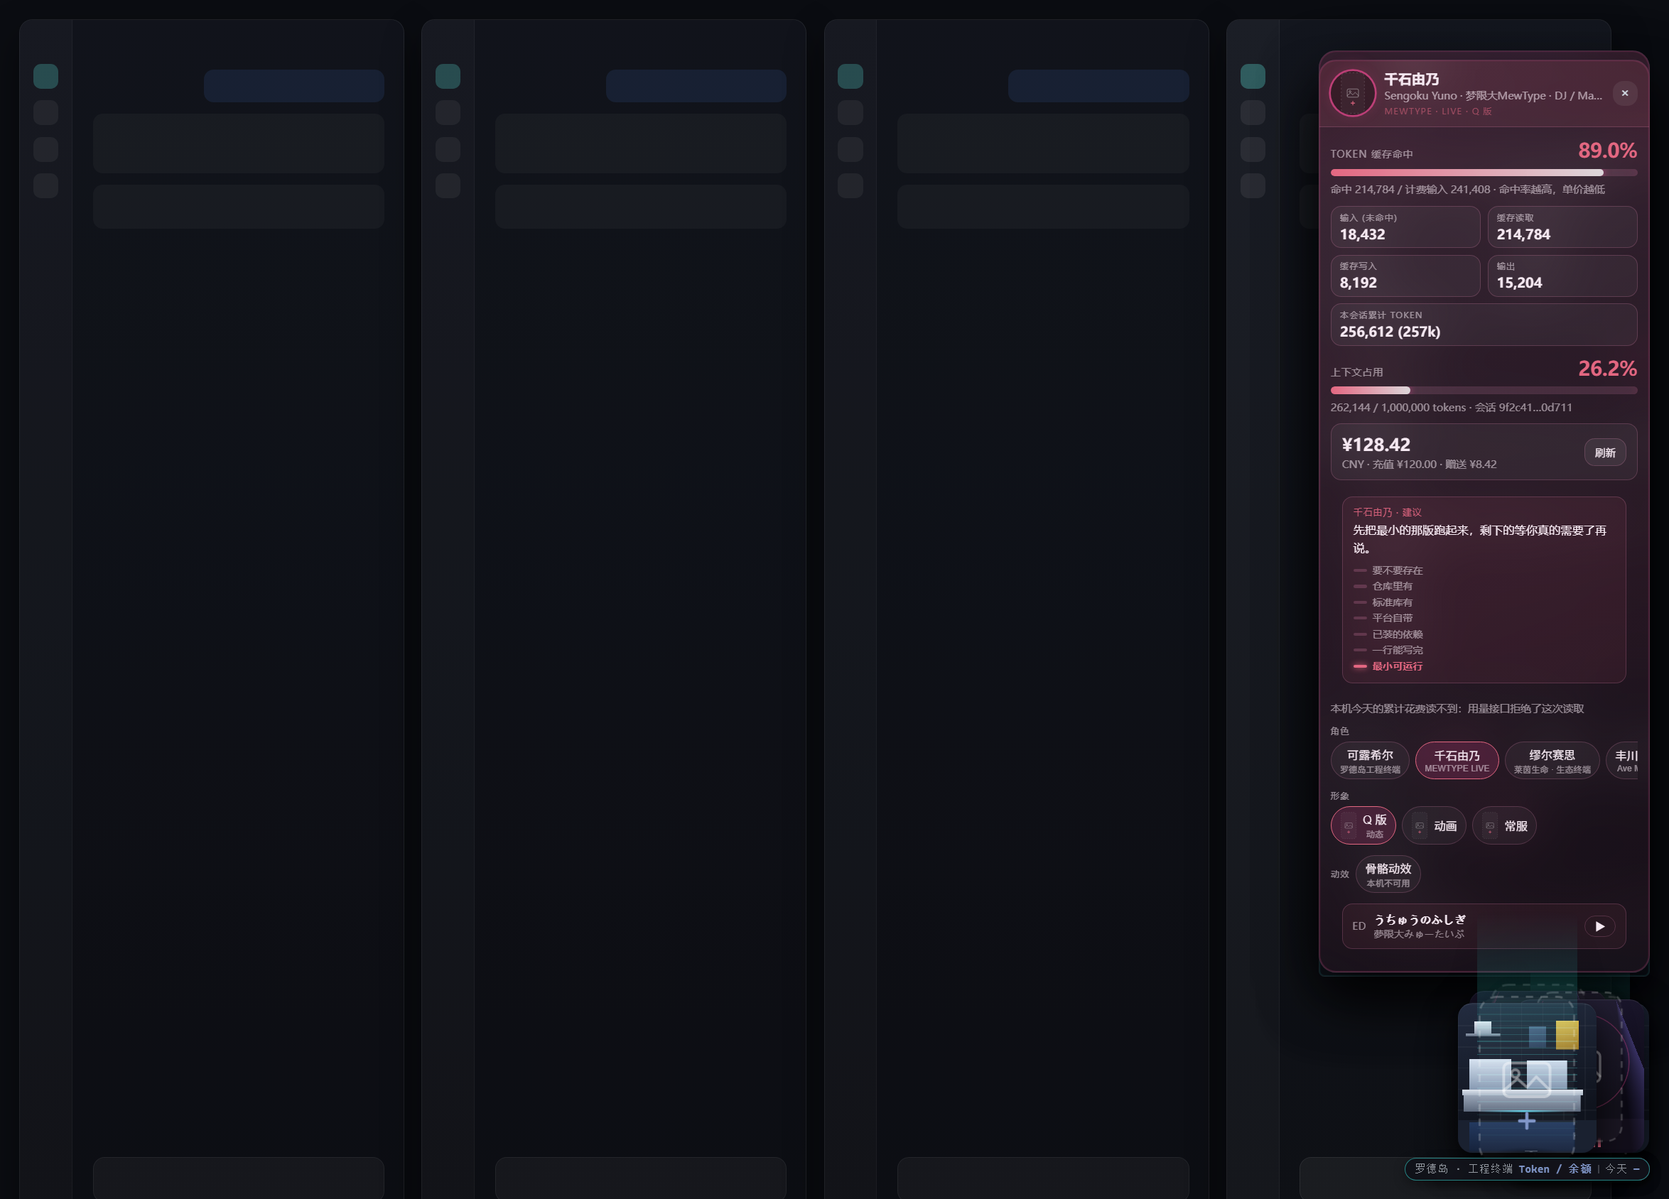
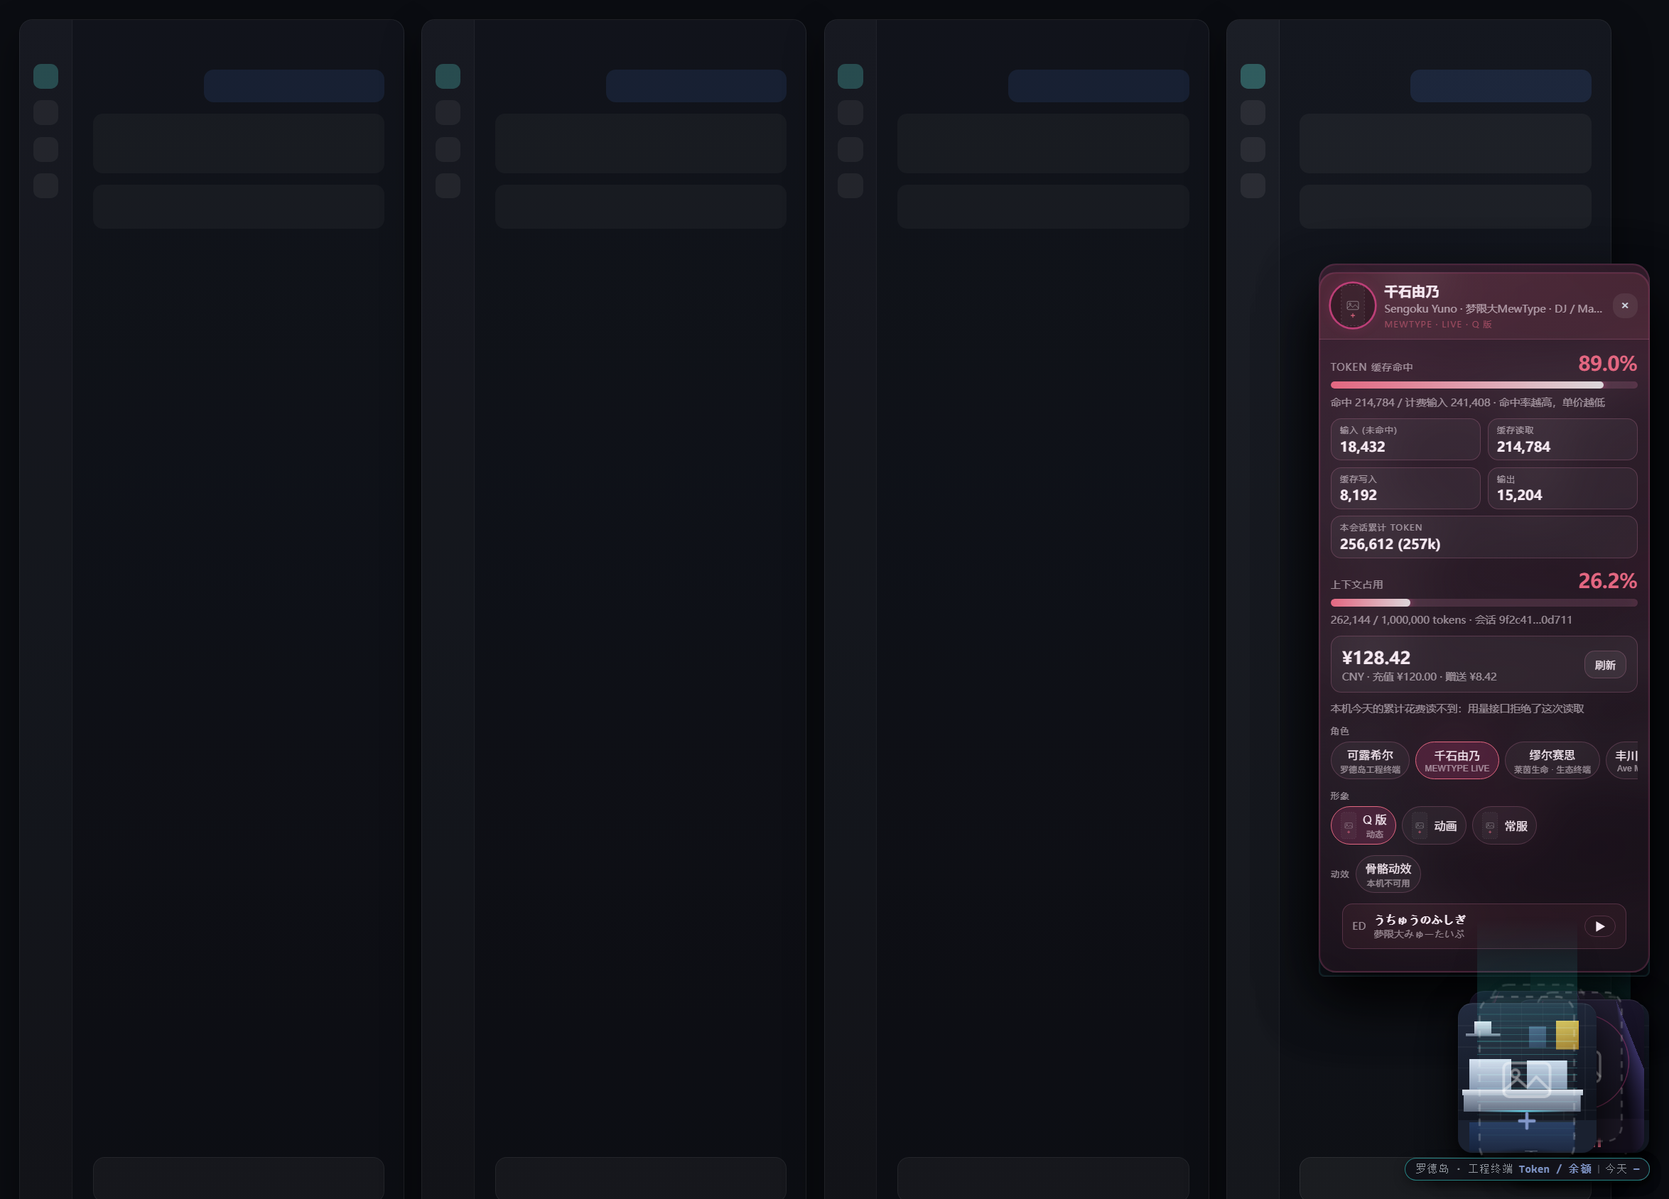
revert(mascot): 删掉点击出建议那一整套，随包的 ponytail 技能保留
你说「把这个删掉」。删的是点击→建议这条链路：气泡、面板里那张七级阶梯的卡、按会话信号挑
建议的那一层、以及它们的样式和测试。**随包的 ponytail 技能和它的安装逻辑原样保留** ——
装插件仍然会把 `skills/ponytail/SKILL.md` 复制进 `$DSH_HOME/skills/`，`/api/health` 里
仍然报 `skill` 的去向。

删掉的东西：`ADVICE_LADDER` / `ADVICE_LINES` / `nextAdvice` / `SIGNAL_ADVICE` /
`adviceFor`，`advice` 与 `bubble` 两个状态、`toggle` 里取建议的三行、
`contextPressure` 那次投影、气泡与卡片的 JSX、`.dsh-mascot-advice*` 与 `.dsh-mascot-ladder`
的样式、5 个导出、面板 slot 上多给的两个 prop、以及 4 条测试。

测试 65 → 61，`npm run check` 全绿，渲染出来的面板回到加建议之前的样子。

## 过程里踩的两个坑

一次用脚本按标记批量删，两块切过头了（`/**` 往回找，撞到了很远的组件注释），切掉 39 行和
49 行，语法当场就红。先 `node --check`、再有备份（`.scratch/client-before-drop.js`），
所以直接还原重来，改成逐块手工删。这类批量改写不该图快。

## 没做 / 没验证

  · 已经装在你机器上的 `~/.dsh/skills/ponytail/` **没有删**。它是这个插件的产物没错，但删
    用户目录里的文件不是一次代码回滚该顺手做的事。要清就 `rm ~/.dsh/skills/ponytail`。
  · 三个 commit（`e4c687e`、`d330129` 和这个）现在是"加了又删"的历史，没有 squash ——
    仓库里留痕比干净的历史更有用，何况 `e4c687e` 里还有要保留的技能部分。

Changed region(s): [[0.7769, 0.0308, 0.9945, 0.5853]]

diff --git a/lib/client.js b/lib/client.js
@@ -1473,138 +1473,6 @@ const VOICE_FILE_LINES = {
 /** The audio element currently speaking, so a second line can cut the first one off. */
 let playing;
 
-//#region advice
-/**
- * 可露希尔会说的话。
- *
- * 她管采购，也管工程 —— 所以她的建议是"这东西不用自己造"这一类。词表按 ponytail 那张
- * 梯子排：动手之前先停在第一个站得住的那一级；省的是**方案**，不是读代码的工夫。
- *
- * 每一级都配一句她自己的口气，而不是把七个词念一遍。反复念提纲不是建议，是目录。
- */
-const ADVICE_LADDER = [
-	{ rung: 0, label: "要不要存在", hint: "先确认这件事值得做" },
-	{ rung: 1, label: "仓库里有", hint: "先搜一遍现成的" },
-	{ rung: 2, label: "标准库有", hint: "语言自带的够不够" },
-	{ rung: 3, label: "平台自带", hint: "浏览器 / 系统的原生能力" },
-	{ rung: 4, label: "已装的依赖", hint: "装都装了，别重写" },
-	{ rung: 5, label: "一行能写完", hint: "能一行就别两行" },
-	{ rung: 6, label: "最小可运行", hint: "只剩必须的，外加一个小测试" },
-];
-
-const ADVICE_LINES = [
-	{ rung: 0, text: "先别动手。这个功能真的需要存在吗？" },
-	{ rung: 0, text: "把需求里「以后可能要用」那句划掉，剩下的才是这次要做的。" },
-	{ rung: 0, text: "五十行的方案我见多了。你拿一行的来，我请你喝罐头咖啡。" },
-	{ rung: 1, text: "仓库里搜过了吗？我打赌已经有一个能用的，只是名字不一样。" },
-	{ rung: 1, text: "同一个东西写两遍，是两个人的活。先去看看隔壁那个文件。" },
-	{ rung: 1, text: "「我自己写一个更可控」，是这行里最贵的八个字。" },
-	{ rung: 2, text: "这个标准库里有。你正在手写的那三十行，人家一行就给你了。" },
-	{ rung: 2, text: "先翻一眼标准库的目录，再决定要不要自己发明。" },
-	{ rung: 3, text: "浏览器自己就会做 —— 原生日期框自带日历，别自己搭一个。" },
-	{ rung: 3, text: "造轮子之前，先摸摸车上的轮子是不是已经装好了。" },
-	{ rung: 4, text: "已经装的依赖里就有。再写一遍，等于给下一个人多一份要读的代码。" },
-	{ rung: 5, text: "能一行写完的，别写十行。行数不是产出，是负债。" },
-	{ rung: 5, text: "上次那个一百二十行的缓存类，现在还在给谁添麻烦？" },
-	{ rung: 6, text: "先把最小的那版跑起来，剩下的等你真的需要了再说。" },
-	{ rung: 6, text: "有分支、有循环、有解析、碰钱、碰权限的逻辑，留一个小测试再收工。" },
-	{ rung: 6, text: "少写不等于省事：输入校验、错误处理、安全、无障碍，这几样不许砍。" },
-	{ rung: 6, text: "收工前说一句：这次跳过了什么、没验证什么、有什么风险。" },
-];
-
-/**
- * 下一条建议。
- *
- * 不给上一条重样：点两次看到同一句，人会以为没点上。抽中的下标正好是上一条时往后挪一格，
- * 比"重抽"简单，而且保证一定不一样。
- *
- * @param previous - the line shown last, or `undefined` for the first click.
- * @returns the next line, or `undefined` when the table is empty.
- */
-function nextAdvice(previous) {
-	if (ADVICE_LINES.length === 0) return undefined;
-	const last = previous === undefined ? -1 : ADVICE_LINES.indexOf(previous);
-	let index = Math.floor(Math.random() * ADVICE_LINES.length);
-	if (last !== -1 && index === last) index = (index + 1) % ADVICE_LINES.length;
-	return ADVICE_LINES[index];
-}
-
-/** 建议在角色旁边停留多久。够读完一句，又不至于一直挂在那儿。 */
-const ADVICE_MS = 11000;
-
-/**
- * 按**当前会话的数字**挑的那几条。
- *
- * 这一层存在的唯一理由是省：判断只用宿主**已经算好**的那几个数（上下文占比、缓存命中、
- * 已花 token），所以既不花 token，也不联网，更不把工作区内容送出去。要按"你此刻在改什么"
- * 来挑，就得让插件去观察工具调用 —— 那是另一层，先不做。
- *
- * 数组顺序就是优先级：越靠前越急。
- */
-const SIGNAL_ADVICE = [
-	{
-		id: "pressure-high",
-		rung: 6,
-		when: (at) => at.pressure >= 0.85,
-		note: (at) => `上下文 ${Math.round(at.pressure * 100)}%`,
-		text: "上下文快满了。先别读新东西，把已经看过的收成一句结论再往下走。",
-	},
-	{
-		id: "pressure-mid",
-		rung: 6,
-		when: (at) => at.pressure >= 0.6,
-		note: (at) => `上下文 ${Math.round(at.pressure * 100)}%`,
-		text: "上下文过半了。刚才那几份大文件，你真正要的其实只有其中一段。",
-	},
-	{
-		id: "cache-low",
-		rung: 6,
-		when: (at) => typeof at.cacheHit === "number" && at.cacheHit < 0.2
-			&& typeof at.tokens === "number" && at.tokens > 100000,
-		note: (at) => `缓存命中 ${Math.round(at.cacheHit * 100)}%`,
-		text: "缓存命中这么低，说明每一步都在重读同一段。把结论落到文件里，别靠记性。",
-	},
-	{
-		id: "fresh",
-		rung: 0,
-		when: (at) => typeof at.tokens === "number" && at.tokens > 0 && at.tokens < 20000,
-		note: (at) => `已花 ${Math.round(at.tokens / 1000)}k`,
-		text: "才刚开始。这一轮最划算的是先把代码读清楚，而不是先写点什么出来。",
-	},
-];
-
-/**
- * 一条建议：先看信号，再退回到轮换。
- *
- * @param signals - `{ pressure, cacheHit, tokens }`，全是宿主已经算好的数。缺项就是不匹配，
- *   所以一个读不到的投影只会让建议更保守，不会让它胡说。
- * @param previous - 上一条，用来避免连点两次看到同一句。
- * @returns `{ id, rung, text, note }`；`note` 说清这条**因为什么**说的。
- */
-function adviceFor(signals, previous) {
-	const at = signals ?? {};
-	const hit = SIGNAL_ADVICE.find((line) => {
-		try {
-			return line.when(at) === true;
-		} catch {
-			return false;
-		}
-	});
-	// 同一条件下连点会一直是同一句，那就退回到轮换 —— 否则看起来像点了没反应。
-	if (hit !== undefined && previous?.id !== hit.id) {
-		let note;
-		try {
-			note = hit.note(at);
-		} catch {
-			note = undefined;
-		}
-		return { id: hit.id, rung: hit.rung, text: hit.text, note };
-	}
-	return nextAdvice(previous);
-}
-//#endregion
-
-
 /**
  * Character id -> URL of the official recording, as reported by the host.
  *
@@ -2011,56 +1879,6 @@ function voiceStatus() {
 .dsh-mascot-metric-top b { font-size: 21px; letter-spacing: -.5px; font-variant-numeric: tabular-nums;
   font-family: var(--dsh-mascot-font, inherit); color: var(--dsh-mascot-accent, #37e0d8); }
 .dsh-mascot-hint { font-size: 11px; color: var(--dsh-mascot-dim, rgba(255,255,255,.5)); line-height: 1.45; }
-/* ---------- 她给的建议 ---------- */
-/* 挂在角色左边：她站在屏幕右下角，右边没有空间，而面板已经占了正上方。尾巴指向她，
-   读的人一眼知道是谁在说话。pointer-events 保持 none —— 一句话不该挡住你正在点的东西。 */
-.dsh-mascot-advice { position: absolute; right: calc(100% + 14px); bottom: 54px;
-  width: 236px; padding: 9px 11px 8px; border-radius: var(--dsh-mascot-radius, 8px);
-  background: var(--dsh-mascot-surface, rgba(16,20,28,.96));
-  border: 1px solid var(--dsh-mascot-accent-line, rgba(120,200,210,.55));
-  box-shadow: 0 10px 30px rgba(0,0,0,.42);
-  pointer-events: none; animation: dsh-mascot-advice-in .22s ease-out both; }
-.dsh-mascot-advice::after { content: ""; position: absolute; right: -5px; bottom: 15px;
-  width: 9px; height: 9px; transform: rotate(45deg); background: inherit;
-  border-right: 1px solid var(--dsh-mascot-accent-line, rgba(120,200,210,.55));
-  border-bottom: 1px solid var(--dsh-mascot-accent-line, rgba(120,200,210,.55)); }
-.dsh-mascot-advice-who { font-size: 9.5px; letter-spacing: .08em; text-transform: uppercase;
-  color: var(--dsh-mascot-accent, #37e0d8); opacity: .9; display: flex;
-  align-items: baseline; justify-content: space-between; gap: 8px; }
-/* 「因为什么」：上下文 78% / 缓存命中 12% / 已花 45k。次要的颜色，不抢那句话。 */
-.dsh-mascot-advice-who em { font-style: normal; letter-spacing: 0; text-transform: none;
-  color: var(--dsh-mascot-dim, rgba(255,255,255,.5)); }
-.dsh-mascot-advice-text { margin: 5px 0 8px; font-size: 12px; line-height: 1.5;
-  color: var(--dsh-mascot-text, #e9eef5); }
-/* 七格阶梯：她在哪一级说得着，就点亮哪一格。 */
-.dsh-mascot-advice-rung { display: flex; align-items: center; gap: 4px; }
-.dsh-mascot-advice-rung i { flex: 1 1 auto; height: 3px; border-radius: 2px;
-  background: var(--dsh-mascot-hairline, rgba(255,255,255,.16)); }
-.dsh-mascot-advice-rung i[data-on="1"] { background: var(--dsh-mascot-accent, #37e0d8);
-  box-shadow: 0 0 8px var(--dsh-mascot-accent, #37e0d8); }
-.dsh-mascot-advice-rung b { flex: none; margin-left: 5px; font-size: 9.5px; font-weight: 600;
-  color: var(--dsh-mascot-accent, #37e0d8); white-space: nowrap; }
-@keyframes dsh-mascot-advice-in {
-  from { opacity: 0; transform: translateY(4px); }
-  to { opacity: 1; transform: none; }
-}
-/* 面板里那张常驻的建议卡。气泡会消失，这里留着能回看。 */
-.dsh-mascot-advice-card { margin: 8px 12px 10px; padding: 9px 11px 10px;
-  border-radius: var(--dsh-mascot-radius-sm, 6px);
-  background: color-mix(in srgb, var(--dsh-mascot-accent, #37e0d8) 8%, transparent);
-  border: 1px solid var(--dsh-mascot-hairline, rgba(255,255,255,.14)); }
-.dsh-mascot-advice-card .dsh-mascot-advice-text { margin: 4px 0 8px; }
-/* 七级阶梯。竖着排：344px 的宽度里横排七个标签会挤成一团，而竖排读起来就是一张梯子。 */
-.dsh-mascot-ladder { display: flex; flex-direction: column; gap: 3px; }
-.dsh-mascot-ladder span { display: flex; align-items: center; gap: 6px; font-size: 10.5px;
-  line-height: 1.3; color: var(--dsh-mascot-dim, rgba(255,255,255,.5)); }
-.dsh-mascot-ladder span i { flex: none; width: 14px; height: 3px; border-radius: 2px;
-  background: var(--dsh-mascot-hairline, rgba(255,255,255,.16)); }
-.dsh-mascot-ladder span em { font-style: normal; }
-.dsh-mascot-ladder span[data-on="1"] { color: var(--dsh-mascot-accent, #37e0d8); }
-.dsh-mascot-ladder span[data-on="1"] i { background: var(--dsh-mascot-accent, #37e0d8);
-  box-shadow: 0 0 6px var(--dsh-mascot-accent, #37e0d8); }
-.dsh-mascot-ladder span[data-on="1"] em { font-weight: 600; }
 
 /* bars: segmented reads as an instrument, vu reads as a meter */
 .dsh-mascot-bar { height: 7px; overflow: hidden; border-radius: var(--dsh-mascot-radius-sm, 4px);
@@ -2973,7 +2791,7 @@ function voiceStatus() {
 				look, character, looks, characters, theme, onSelectLook, onSelectCharacter,
 				onClose, balance, balanceBusy, onRefresh, useProjection, sessionId,
 				rigOn, rigFailed, onToggleRig, showBalance, siren, songs,
-				todayError, advice, ladder,
+				todayError,
 			} = props;
 			const usage = useProjection("tokenUsage");
 			const pressure = useProjection("contextPressure");
@@ -3146,31 +2964,6 @@ function voiceStatus() {
 								h("button", { type: "button", className: "dsh-mascot-refresh", onClick: onRefresh, disabled: balanceBusy === true }, balanceBusy === true ? "查询中…" : "刷新"),
 							)
 						: null,
-					// ---- 她给的建议
-					// 面板里这张是常驻的：气泡会自己消失，而"她刚才说了什么"值得能回看。
-					// 整张梯子都画出来、当前那一级点亮 —— 一句建议不是孤零零的话，它有位置。
-					advice === undefined
-						? null
-						: h(
-								"div",
-								{ className: "dsh-mascot-advice-card" },
-								h("div", { className: "dsh-mascot-advice-who" },
-									`${character?.name ?? ""} · 建议`,
-									advice.note === undefined ? null : h("em", null, advice.note)),
-								h("p", { className: "dsh-mascot-advice-text" }, advice.text),
-								h(
-									"div",
-									{ className: "dsh-mascot-ladder" },
-									(ladder ?? ADVICE_LADDER).map((step) =>
-										h(
-											"span",
-											{ key: String(step.rung), "data-on": step.rung === advice.rung ? "1" : "0", title: step.hint },
-											h("i", { "aria-hidden": "true" }),
-											h("em", null, step.label),
-										),
-									),
-								),
-							),
 					// 「今天」读不到时把原因写出来。放在这里而不是胶囊里：胶囊只放得下一个数字，
 					// 而这一行是唯一能说清"为什么没有数字"的地方。
 					todayError === undefined
@@ -3362,22 +3155,6 @@ function voiceStatus() {
 			const [balanceBusy, setBalanceBusy] = React.useState(false);
 			const [refreshToken, setRefreshToken] = React.useState(0);
 			const [poke, setPoke] = React.useState(false);
-			/**
-			 * The advice she is saying right now, if any.
-			 *
-			 * Clicking her is one gesture with three expressions: the rig wobbles, the voice
-			 * speaks, and this is the third — a line of engineering advice, in her voice.
-			 *
-			 * Two pieces of state on purpose. `advice` keeps the last line so the panel can show
-			 * it after the bubble has gone; `bubble` is only the bubble's own visibility. One
-			 * timer that cleared both would take the card away while it was being read.
-			 */
-			const [advice, setAdvice] = React.useState(undefined);
-			const [bubble, setBubble] = React.useState(false);
-			const adviceRef = React.useRef(undefined);
-			adviceRef.current = advice;
-			const adviceTimer = React.useRef(0);
-			React.useEffect(() => () => { window.clearTimeout(adviceTimer.current); }, []);
 			const [rigFailed, setRigFailed] = React.useState(false);
 			// A deliberate choice in the panel wins; the plugin config supplies the
 			// default for an install nobody has toggled yet.
@@ -3402,16 +3179,7 @@ function voiceStatus() {
 			// the host is told the total so it can keep the day's running sum.
 			const sessionId = props.sessionId;
 			const usageProjection = typeof props.useProjection === "function" ? props.useProjection("tokenUsage") : undefined;
-			/**
-			 * 建议要看的第二个投影。
-			 *
-			 * 这也是零成本的：`contextPressure` 是宿主早就算好的，读它不产生任何模型调用、
-			 * 也不往上下文里塞东西。一份读不到时 `deriveStats` 会给 `occupancyRatio: 0`，
-			 * 于是那两条按压力挑的建议自然不匹配 —— 读不到就说得更保守，不会胡说。
-			 */
-			const pressureProjection = typeof props.useProjection === "function" ? props.useProjection("contextPressure") : undefined;
 			const chipStats = deriveStats(usageProjection, undefined);
-			const adviceSignals = deriveStats(usageProjection, pressureProjection);
 			const { today: todaySpend, error: todayError } = useTodaySpend(sessionId, chipStats.total);
 
 			// The look index is fetched once; it is small and only changes when the
@@ -3529,18 +3297,6 @@ function voiceStatus() {
 				speakLine(currentCharacterRef.current, { url: voiceUrls[currentCharacterRef.current] });
 				setPoke(true);
 				window.setTimeout(() => setPoke(false), POKE_MS);
-				// And she gives advice. The line is picked against the current session's own
-				// numbers — context pressure, cache hit, tokens spent — which the host has
-				// already computed, so this costs no tokens and never calls a model. Only the
-				// bubble expires; the panel keeps the line so it can be read again.
-				setAdvice(adviceFor({
-					pressure: adviceSignals.occupancyRatio,
-					cacheHit: adviceSignals.cacheHit,
-					tokens: adviceSignals.total,
-				}, adviceRef.current));
-				setBubble(true);
-				window.clearTimeout(adviceTimer.current);
-				adviceTimer.current = window.setTimeout(() => setBubble(false), ADVICE_MS);
 				setOpen((value) => !value);
 			};
 
@@ -3622,30 +3378,8 @@ function voiceStatus() {
 								// 能说清楚的地方，胶囊只放得下一个「—」。
 								todaySpend,
 								todayError,
-								// 她刚说的那条，以及整张梯子 —— 面板里那张卡要把它画成一排点亮
-								// 的格子，所以两级都得给。
-								advice,
-								ladder: ADVICE_LADDER,
 							})
 						: null,
-					// 她说话的地方。挂在她左边：她站在屏幕右下角，右边没有空间，而面板已经占了
-					// 正上方。pointer-events 保持 none —— 一句建议不该挡住你正在点的东西。
-					advice === undefined || !bubble ? null : h(
-						"div",
-						{ className: "dsh-mascot-advice", role: "status", "aria-live": "polite" },
-						h("div", { className: "dsh-mascot-advice-who" },
-							`${character?.name ?? "可露希尔"} · 建议`,
-							// 她是**因为什么**说这句的。没有这一行，读者没法判断该不该听。
-							advice.note === undefined ? null : h("em", null, advice.note)),
-						h("p", { className: "dsh-mascot-advice-text" }, advice.text),
-						h("div", { className: "dsh-mascot-advice-rung" },
-							ADVICE_LADDER.map((step) => h("i", {
-								key: String(step.rung),
-								"data-on": step.rung === advice.rung ? "1" : "0",
-								title: `${String(step.rung + 1)}. ${step.label} —— ${step.hint}`,
-							})),
-							h("b", null, ADVICE_LADDER.find((step) => step.rung === advice.rung)?.label ?? "")),
-					),
 					h(
 						"div",
 						{ className: "dsh-mascot-dock" },
@@ -3810,13 +3544,6 @@ function voiceStatus() {
 		exports.clampSeat = clampSeat;
 		exports.readSeat = readSeat;
 		exports.motionFor = motionFor;
-		// 她给的建议。导出来是为了能真测"两条不重样"和"每一级都存在" —— 一个只靠肉眼
-		// 看两句台词的词表，加错一级或者重复一句，谁也不会发现。
-		exports.ADVICE_LADDER = ADVICE_LADDER;
-		exports.ADVICE_LINES = ADVICE_LINES;
-		exports.nextAdvice = nextAdvice;
-		exports.SIGNAL_ADVICE = SIGNAL_ADVICE;
-		exports.adviceFor = adviceFor;
 		// 账本这条缝以前没有测试，因为函数没导出 —— 而它恰好是"失败被吞掉"那种毛病
 		// 最容易藏身的地方。导出给自检用。
 		exports.reportUsage = reportUsage;

diff --git a/README.md b/README.md
@@ -344,8 +344,6 @@ Three edges. An existing copy is **never overwritten**, because it may be a newe
 
 Whether it landed is a fact you can check rather than a promise: the `skill` field of `GET /dsh-mascot/api/health` reports `installed`, `present`, `disabled`, `missing` or `failed` with a reason.
 
-Clicking the mascot makes her say one piece of that advice. The bubble clears after a few seconds; the card in the panel keeps the line, with a seven-rung ladder under it and the rung she is talking about lit.
-
 ## Copyright
 
 The repository contains no artwork belonging to anyone else. Characters are © their owners — Hypergryph (*Arknights*) and Bushiroad (*BanG Dream!*). `npm run fetch-art` downloads the images onto each machine.

diff --git a/README.zh.md b/README.zh.md
@@ -342,8 +342,6 @@ npm run verify            # 当前 DSH profile 的预检
 
 装没装上是能查的事实，不是一句承诺：`GET /dsh-mascot/api/health` 的 `skill` 字段会给 `installed`（刚写进去）、`present`（本来就有，没动）、`disabled`、`missing` 或 `failed`（带原因）。
 
-点一下角色，她会说一句这类建议。气泡停十几秒就收，面板里那张卡会留着 —— 底下是一排七格的阶梯，她说到哪一级就点亮哪一格。
-
 ## 版权
 
 仓库里没有别人的素材。角色版权归各自所有者 —— 鹰角网络（明日方舟）、Bushiroad（BanG Dream!）。`npm run fetch-art` 把图下载到各人自己的机器上。
